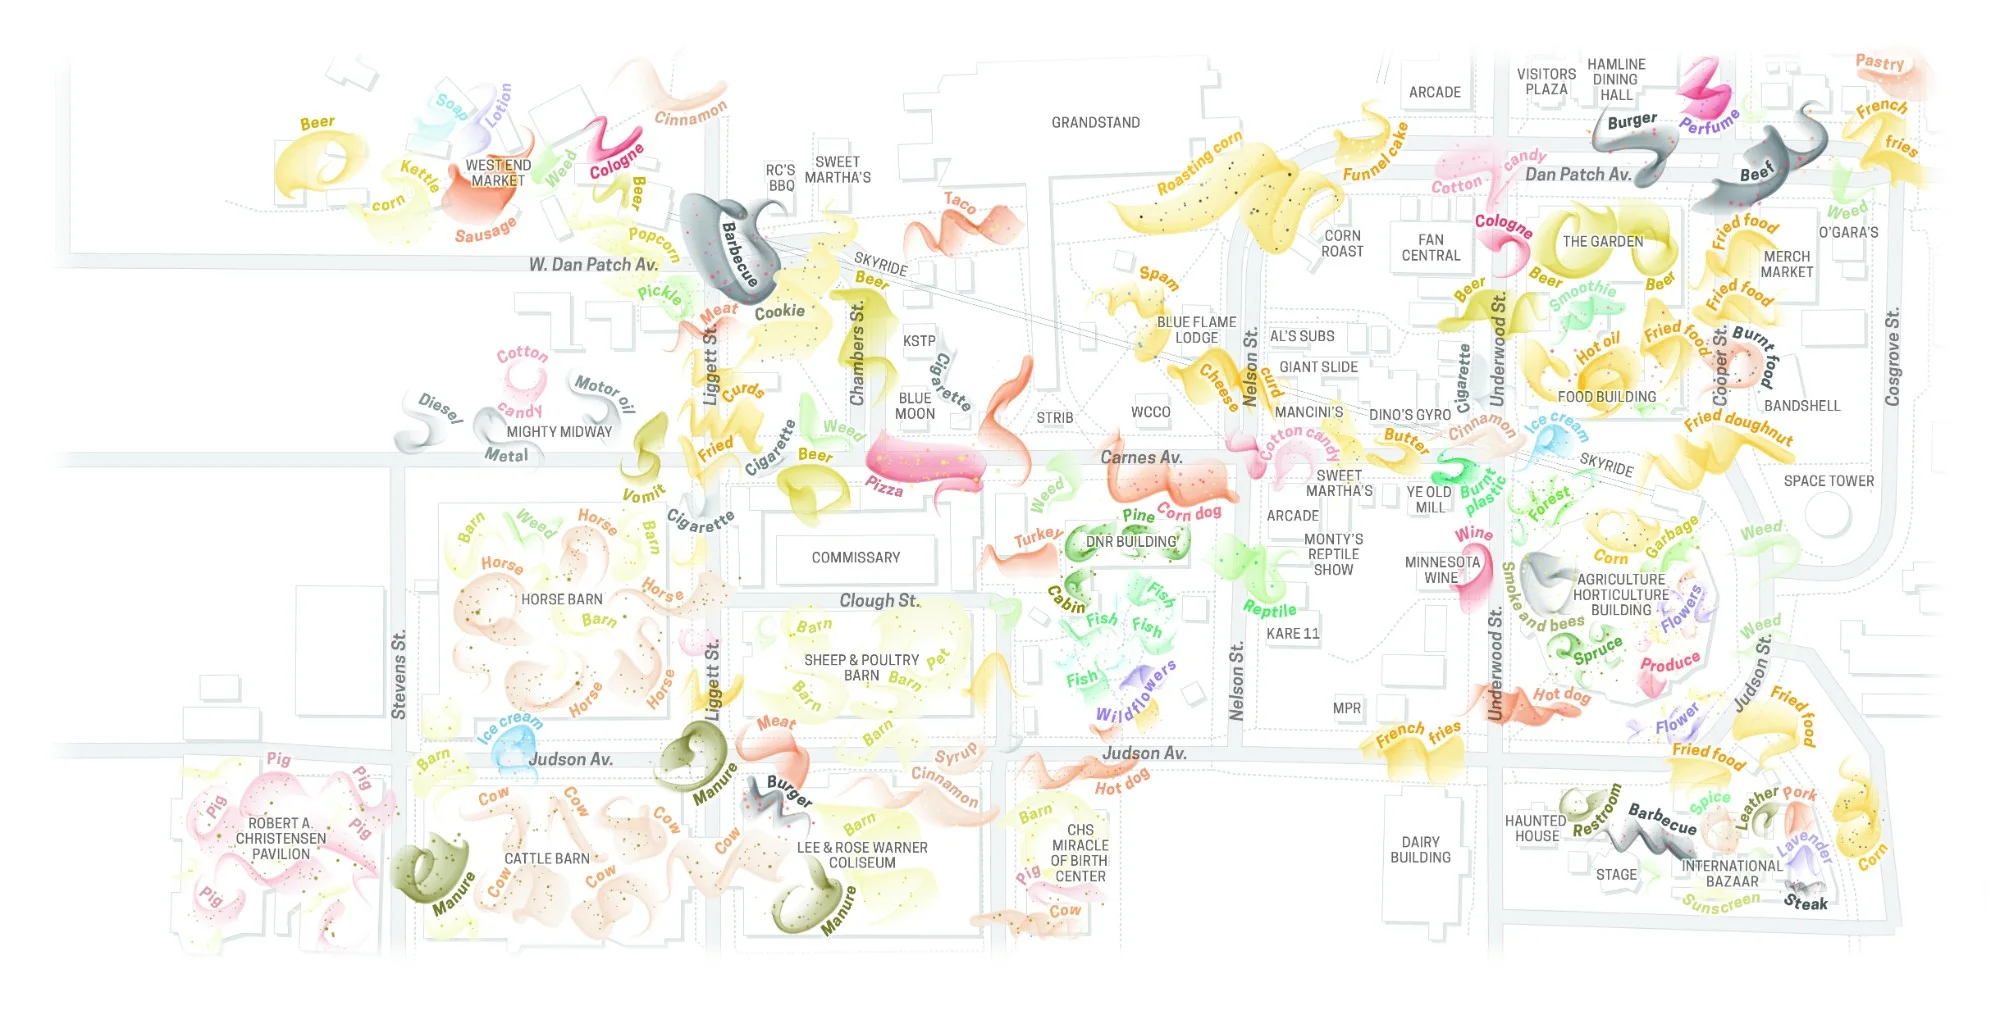
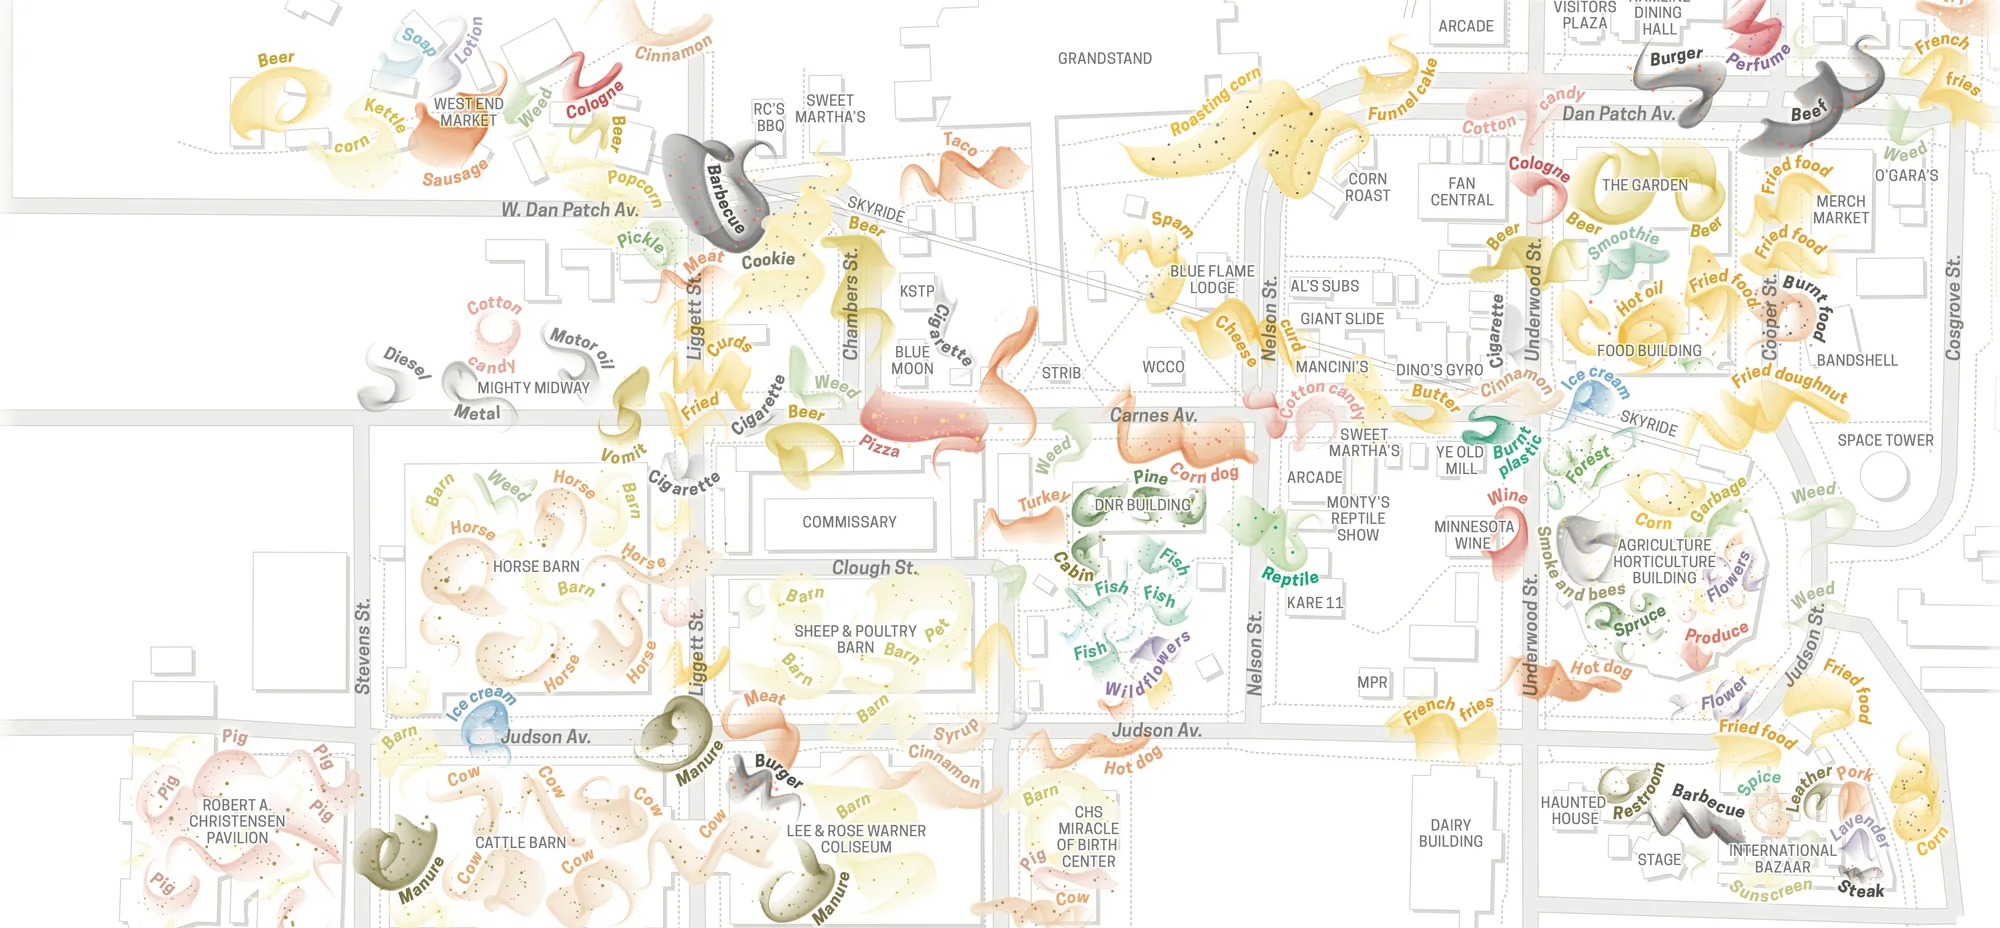
Rebuild the Smellscape map from its CMYK original; make its panel 2-column
The preview and the full-size map are now converted from the CMYK
original in img/smellscape.jpg, rather than an already-converted copy.
The preview is cropped to fill the 2-column panel's width; the full
size is the whole map at full resolution. The mediaFull option, now
unused, is removed.

diff --git a/js/projects.js b/js/projects.js
@@ -60,8 +60,6 @@ const TAGS = [
                                                //   unframed and slightly tilted, in rows filling
                                                //   the width (for cut-out art on a clear
                                                //   background, like 22, A Map's glyphs)
-     mediaFull:   false,                       // optional: true puts the pictures under the text,
-                                               //   across the whole panel (for a wide map)
      mediaHalf:   false,                       // optional: true gives the pictures exactly half
                                                //   of a 3-column panel, filling it (no height limit)
      images:      [],                          // extra pictures for the panel, e.g.
@@ -171,7 +169,7 @@ const PROJECTS = [
     title:       "Minnesota State Fair Smellscape",
     slug:        "state-fair-smellscape",
     year:        "2025",
-    panelCols:   3,
+    panelCols:   2,
     tile:        "img/tiles/state-fair-smellscape.webp",
     video:       "",
     link:        "https://www.startribune.com/smells-of-the-minnesota-state-fair-create-a-festival-for-the-nose/601443971?utm_source=gift",
@@ -180,10 +178,11 @@ const PROJECTS = [
     inBook:      true,
     description: "The landscape of smells — or, smellscape — of the Minnesota State Fair, " +
                  "where the aroma of roasting corn is as prominent as any mountain.",
-    mediaFull:   true,                            // the map spans the panel, under the text
     images:      [
-      { src: "img/tiles/state-fair-smellscape-full.webp",   // a lighter copy to preview…
-        full: "img/smellscape-fair.jpg" }                    // …"Open full-size map" opens the full-size map
+      // both made from the CMYK original, img/smellscape.jpg, converted to screen
+      // colors: the preview has its white margins cropped off; the full size is whole
+      { src: "img/tiles/state-fair-smellscape-full.webp",
+        full: "img/smellscape-fair.jpg" }                    // "Open full-size map" opens this
     ],
     awards:      []
   },

diff --git a/js/portfolio.js b/js/portfolio.js
@@ -257,7 +257,7 @@
     return `
       <div class="panel" data-open="false" data-for="${esc(p.slug)}">
         <div class="panel-in">
-          <div class="panel-body${hasImages ? '' : ' solo'}${splitBelow ? ' split' : ''}${p.mediaHalf ? ' half' : ''}${p.mediaFull ? ' full' : ''}">
+          <div class="panel-body${hasImages ? '' : ' solo'}${splitBelow ? ' split' : ''}${p.mediaHalf ? ' half' : ''}">
             <button class="close" type="button" data-close="${esc(p.slug)}">Close &#215;</button>
             <div class="panel-main">
               <div class="ptop">
@@ -447,9 +447,8 @@
     const wide = window.matchMedia('(min-width: 721px)').matches;
     const ratios = mosaic ? fitShots(mosaic, true) : null;
     if (!wide) return;                                 // phones: full width, widest on top
-    // mediaHalf / mediaFull: true in projects.js — fill that space, however tall
-    const body = box.parentElement.classList;
-    if ((body.contains('half') || body.contains('full')) && !box.closest('.panel[data-cols]')) {
+    // mediaHalf: true in projects.js — fill the picture half, however tall
+    if (box.parentElement.classList.contains('half') && !box.closest('.panel[data-cols]')) {
       box.style.width = '100%'; return;
     }
     // the picture column's width, as the grid has worked it out ("544px 700px")

diff --git a/css/portfolio.css b/css/portfolio.css
@@ -332,11 +332,6 @@ body { overflow-anchor: none; }
   .panel:not([data-cols]) .panel-body.half { grid-template-columns: minmax(0, 1fr) minmax(0, 1fr); }
   .panel:not([data-cols]) .half > .pmedia { justify-self: stretch; }
 
-  /* mediaFull: true in projects.js: the pictures go under the text, across
-     the whole panel */
-  .panel:not([data-cols]) .panel-body.full { grid-template-columns: minmax(0, 1fr); }
-  .panel:not([data-cols]) .full > .pmedia { justify-self: stretch; padding-block: 0; }
-
   /* .split (splitBelow in js/portfolio.js, e.g. The Legacy Tree): the top
      picture sits at the right edge (js sizes it: sizeSplitMedia), and the
      other pictures (.pmedia-below) fill the width beside it, under the text,

diff --git a/README.md b/README.md
@@ -60,8 +60,6 @@ That's all: the tile, its filter tags and its panel are built automatically.
 - `scatter: true` — the panel's pictures are laid out loosely: no frames,
   uncropped, slightly tilted, in rows filling the width. For cut-out art on
   a clear background (see 22, A Map's glyphs).
-- `mediaFull: true` — the pictures go under the text, across the whole panel
-  (see the State Fair Smellscape's wide map).
 - `mediaHalf: true` — in a 3-column panel, the text and the pictures each
   get half, and the pictures fill their half rather than keeping within the
   height limit (see Where is Uptown?).
